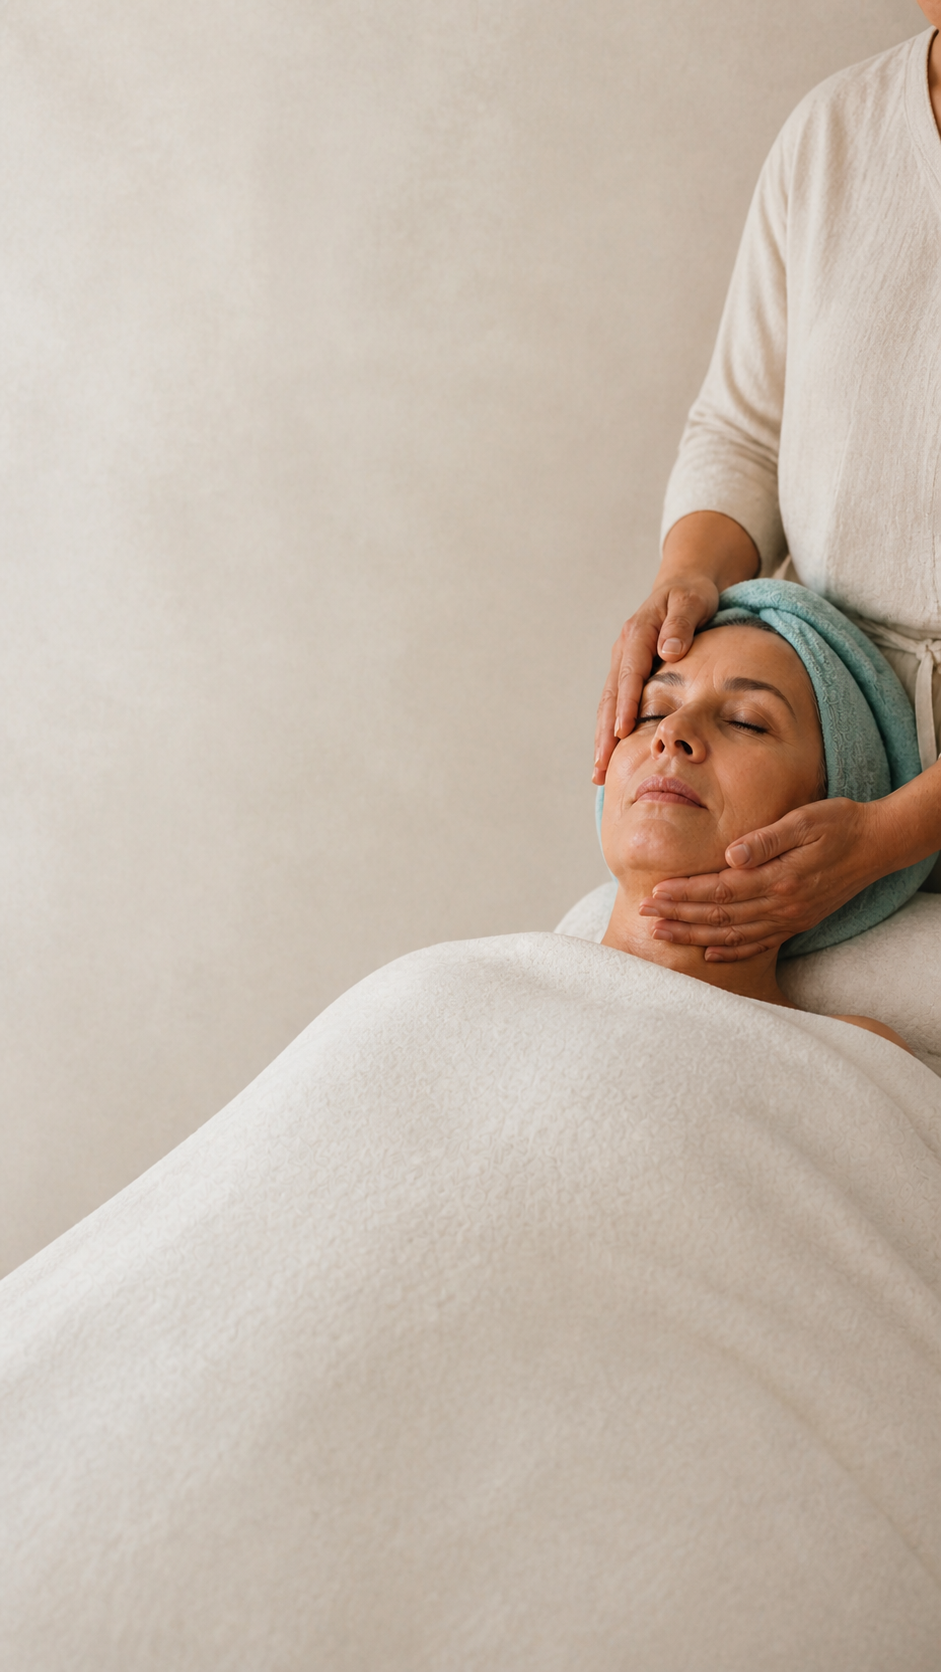
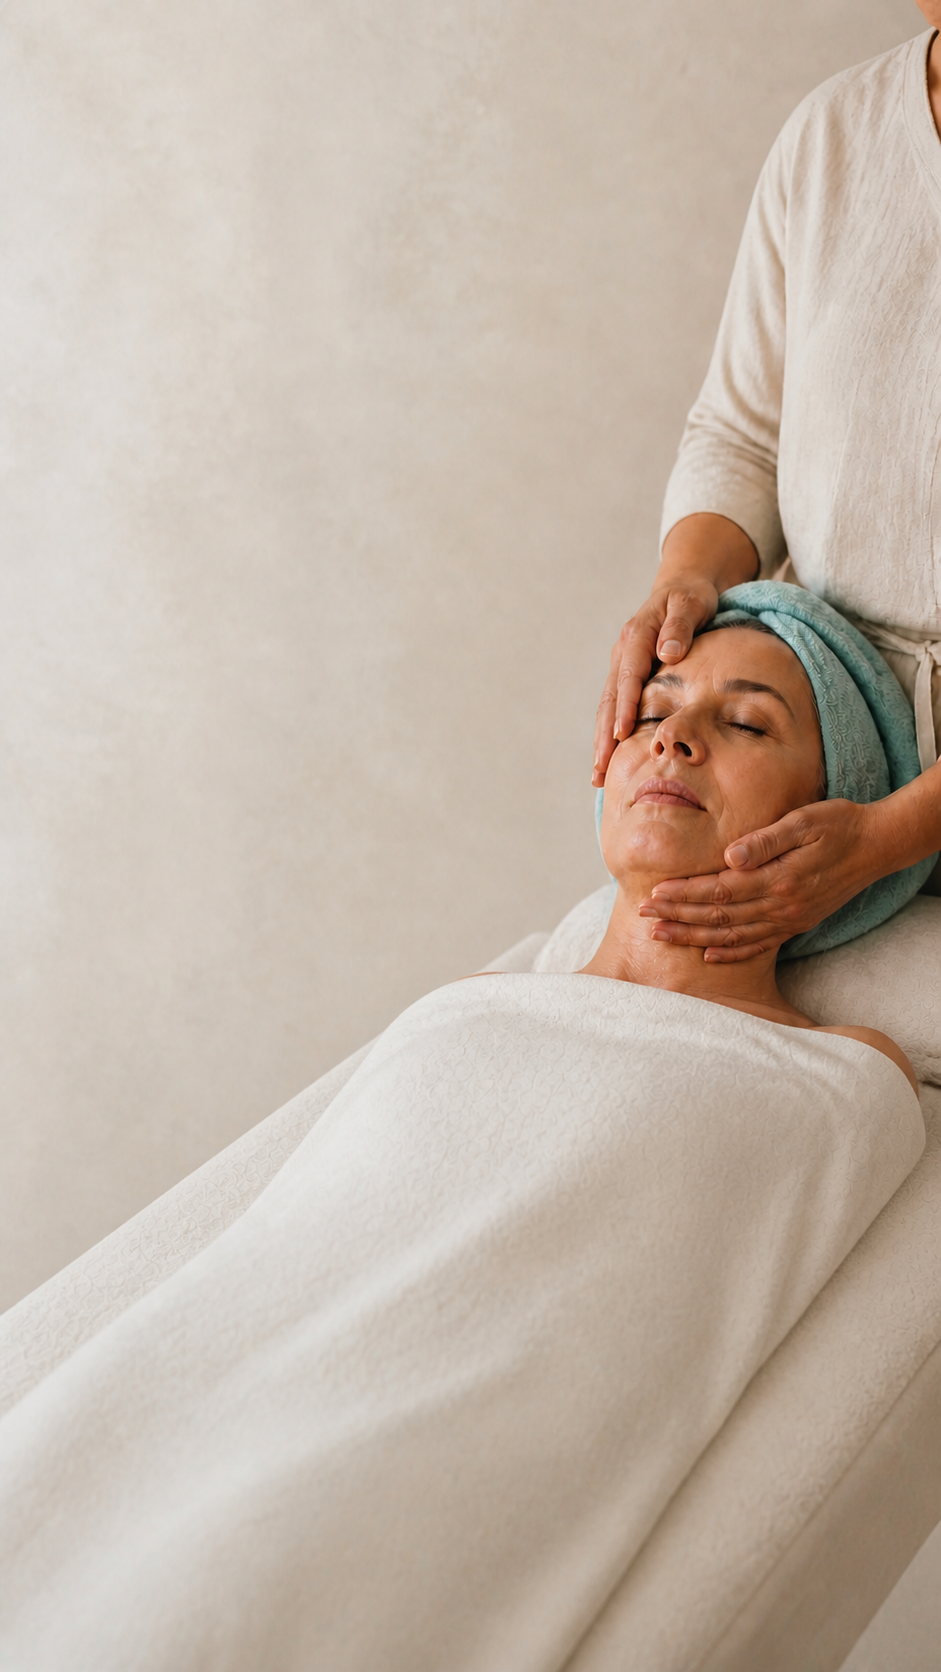
Refine first and third mobile hero slides

diff --git a/docs/css/layout.css b/docs/css/layout.css
@@ -14,4 +14,4 @@ body{padding-bottom:0}.valuation .button{margin-top:2.25rem}.hours{display:flex;
 .hero__slide{background-size:cover;background-repeat:no-repeat;background-position:center}
 .hero__slide--one{background-image:url("../assets/hero/hero-01-mobile.png")}
 .hero__slide--two{background-image:url("../assets/hero/hero-02-mobile.png")}
-.hero__slide--three{background-color:#cbbcac;background-image:url("../assets/hero/hero-03-mobile.png");background-position:68% top;background-size:auto 70%}
+.hero__slide--three{background-color:#cbbcac;background-image:url("../assets/hero/hero-03-mobile.png");background-position:center var(--header-height);background-size:100% auto}

diff --git a/spa-landing/css/layout.css b/spa-landing/css/layout.css
@@ -14,4 +14,4 @@ body{padding-bottom:0}.valuation .button{margin-top:2.25rem}.hours{display:flex;
 .hero__slide{background-size:cover;background-repeat:no-repeat;background-position:center}
 .hero__slide--one{background-image:url("../assets/hero/hero-01-mobile.png")}
 .hero__slide--two{background-image:url("../assets/hero/hero-02-mobile.png")}
-.hero__slide--three{background-color:#cbbcac;background-image:url("../assets/hero/hero-03-mobile.png");background-position:68% top;background-size:auto 70%}
+.hero__slide--three{background-color:#cbbcac;background-image:url("../assets/hero/hero-03-mobile.png");background-position:center var(--header-height);background-size:100% auto}
